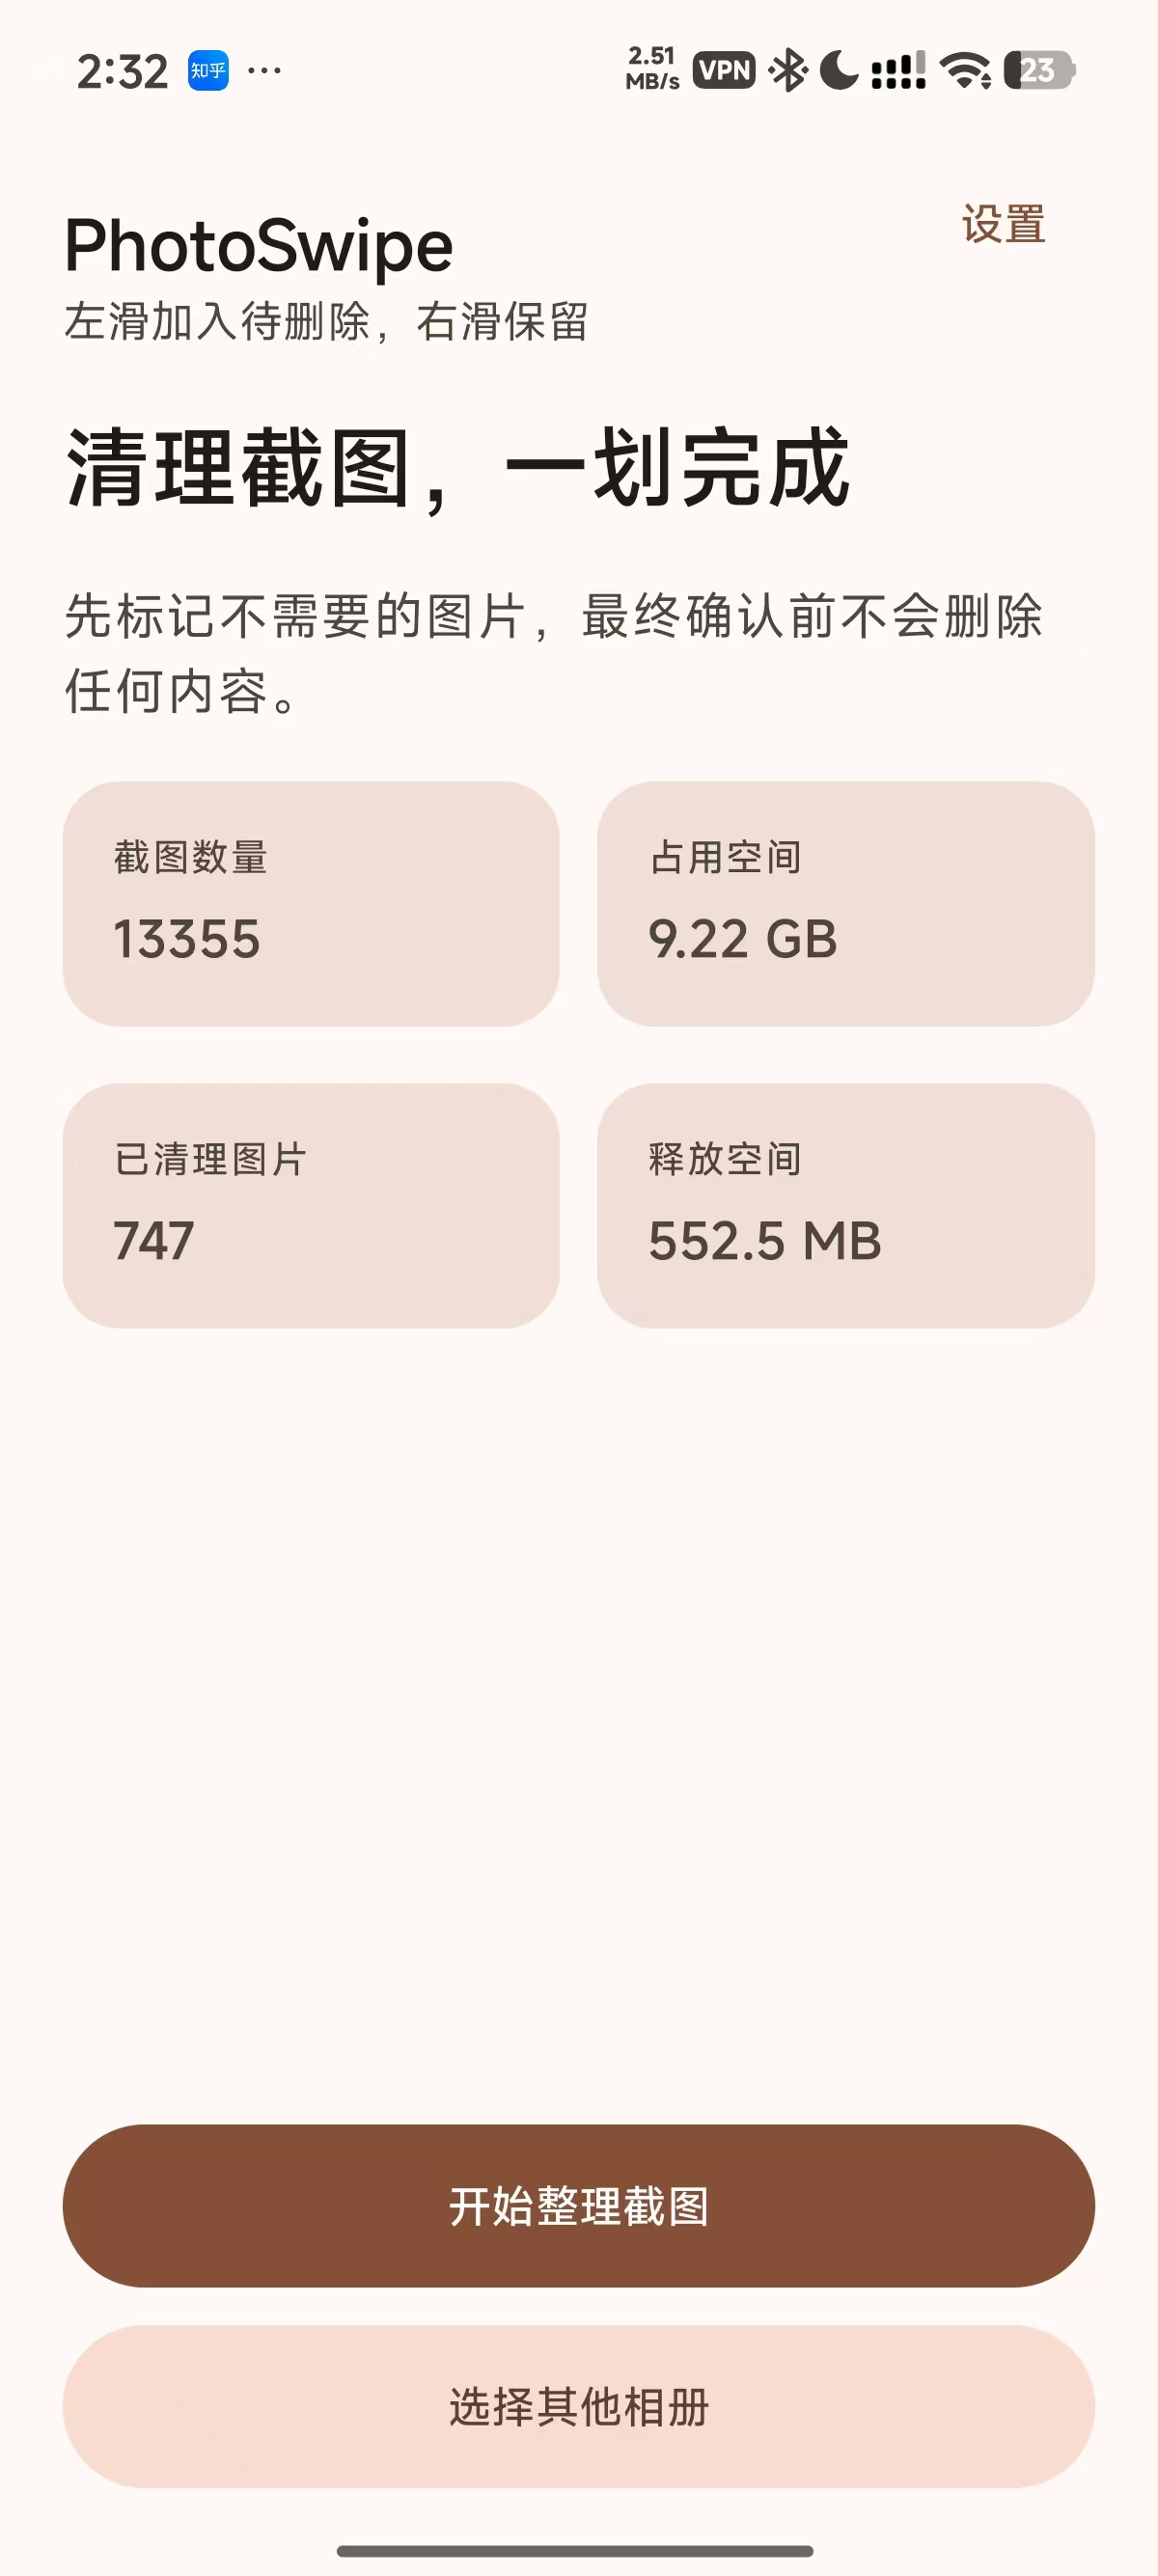
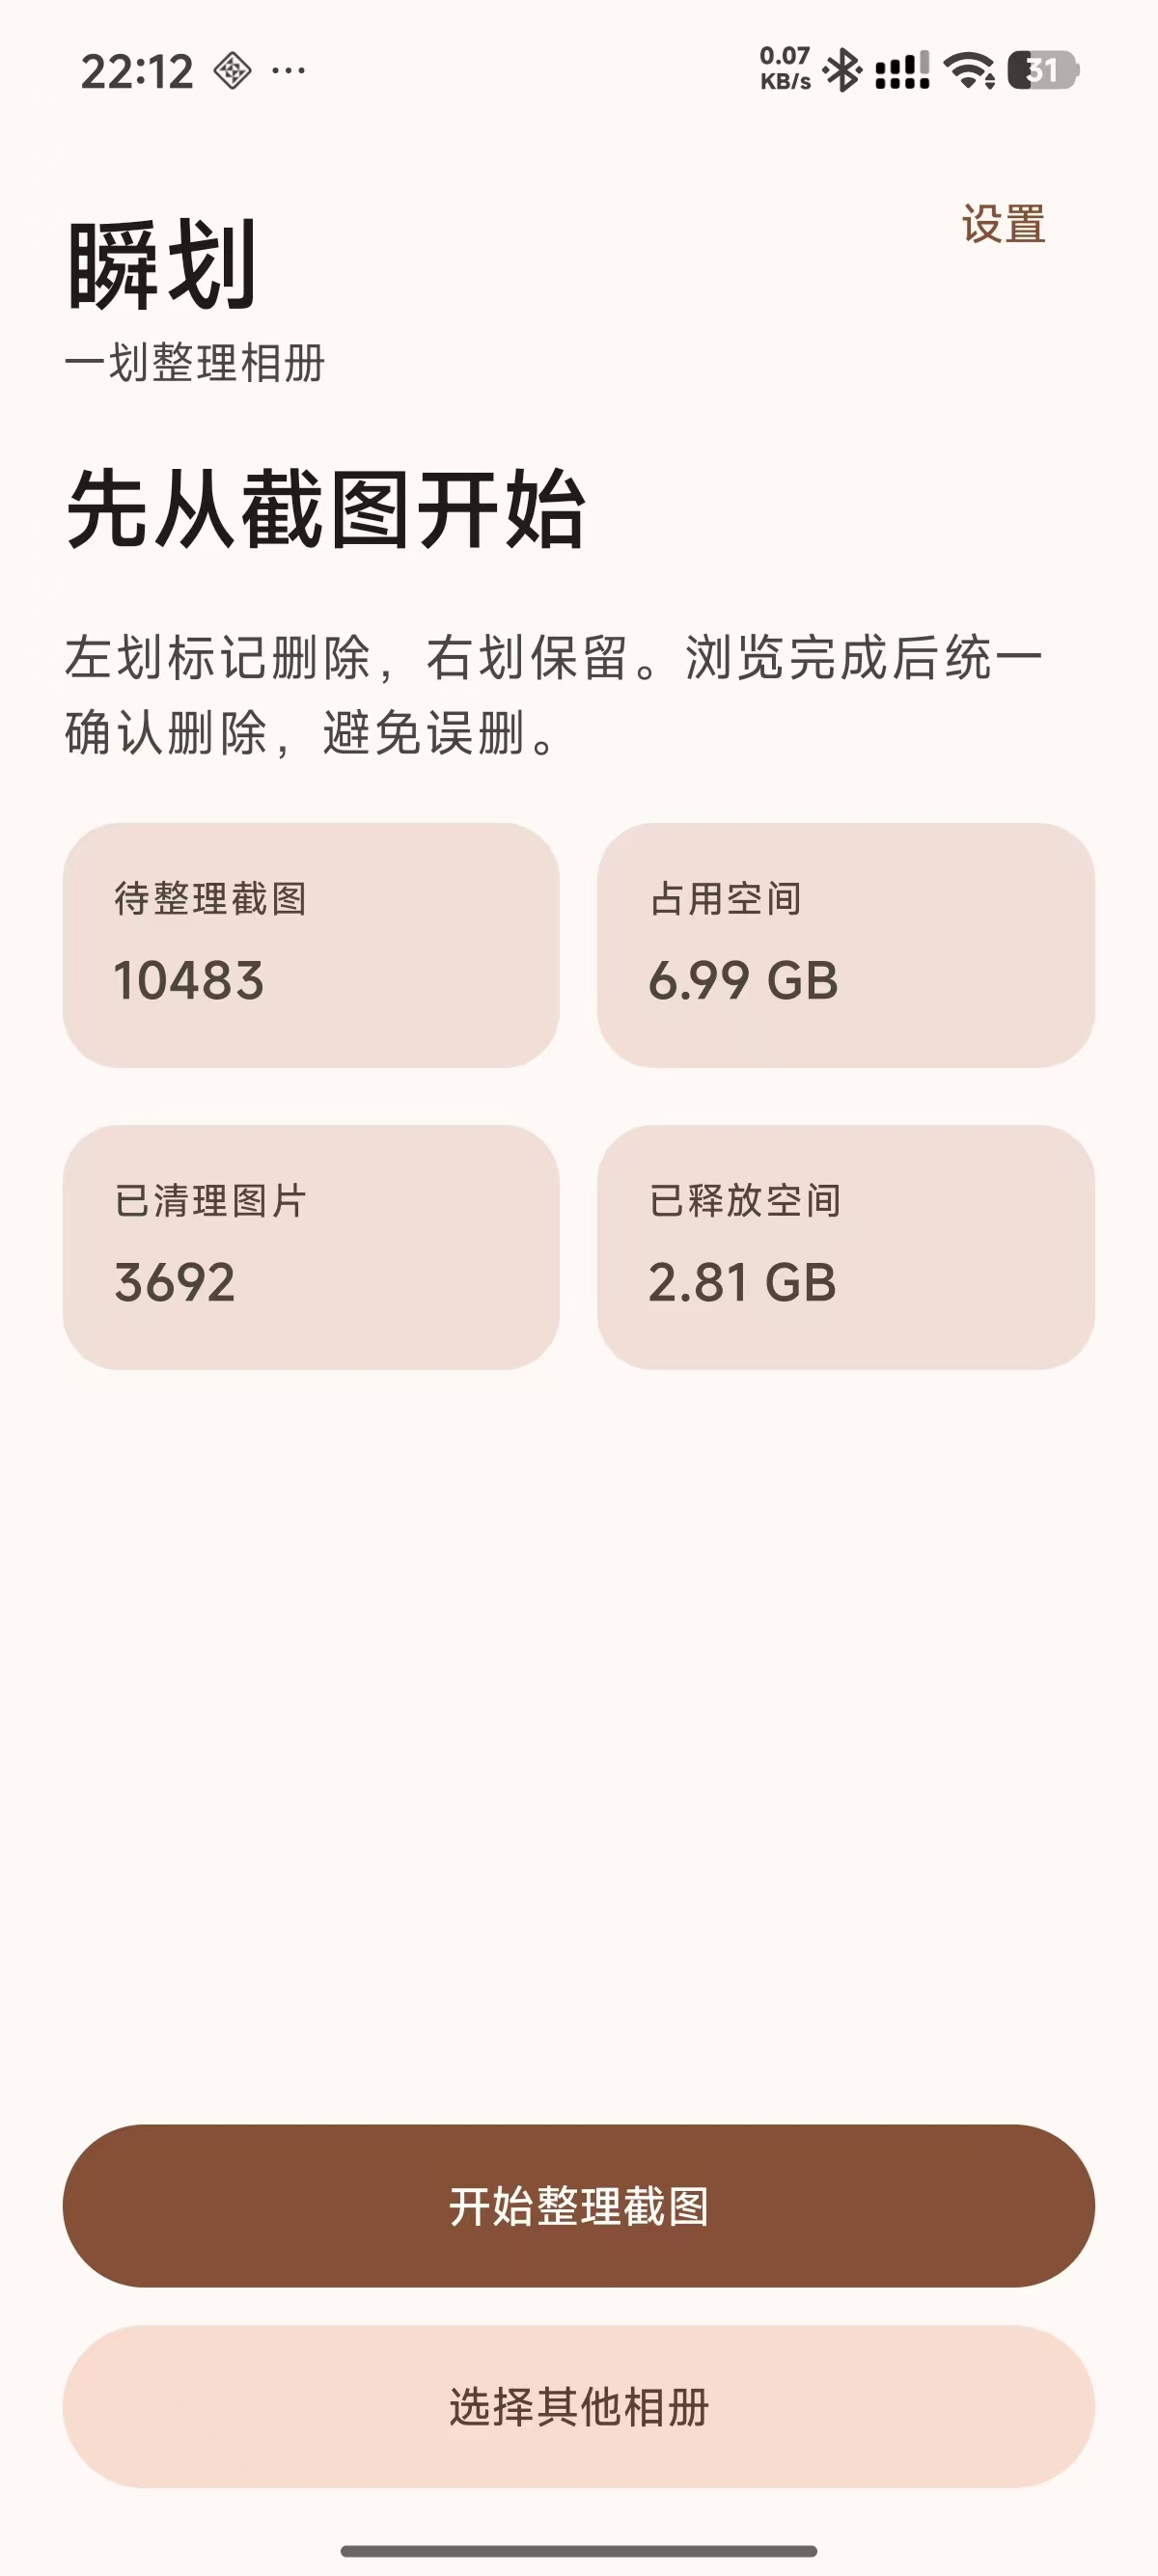
Refresh 瞬划 branding and documentation

Changed region(s): [[0.0308, 0.0, 0.9558, 0.5596], [0.555, 0.0, 0.8017, 0.0622], [0.8633, 0.0, 0.925, 0.0311]]

diff --git a/app/src/main/java/com/don194/photoswipe/MainActivity.kt b/app/src/main/java/com/don194/photoswipe/MainActivity.kt
@@ -1395,7 +1395,7 @@ private fun DeleteStatusBadge(status: DeleteStatus) {
 @Composable
 private fun AppHeader(title: String, subtitle: String, modifier: Modifier = Modifier) {
     Column(modifier) {
-        Text(title, style = MaterialTheme.typography.titleLarge, fontWeight = FontWeight.SemiBold)
+        Text(title, style = MaterialTheme.typography.headlineLarge, fontWeight = FontWeight.Bold)
         Text(subtitle, style = MaterialTheme.typography.bodyMedium, color = MaterialTheme.colorScheme.onSurfaceVariant)
     }
 }

diff --git a/README.md b/README.md
@@ -1,4 +1,4 @@
-# PhotoSwipe
+# 瞬划
 
 <div align="right"><a href="README.en.md">English</a></div>
 
@@ -6,7 +6,11 @@
 
 今年618换手机时，我发现相册里积攒了上万张截图。大部分是向朋友分享信息时残留的无用图片但是也其中有不少是游戏里的精彩瞬间，全部删除又觉得可惜；而系统相册逐张选择删除又很麻烦。
 
-PhotoSwipe 因此而来：交互灵感交友软件的卡片式左右滑动。快速浏览图片时，左滑标记删除，右滑保留，双指捏合放大方便查看长截图；浏览结束后再统一确认删除，让清理截图更轻松。
+瞬划（PhotoSwipe）因此而来：交互灵感来自交友软件的卡片式左右滑动。快速浏览图片时，左滑标记删除，右滑保留，双指捏合放大方便查看长截图；浏览结束后再统一确认删除，让清理截图更轻松。
+
+## 纯本地处理
+
+瞬划只读取和整理设备本地图片，不联网、不登录、不上传任何图片或使用数据。删除操作会交由 Android 系统显示确认，由你决定是否执行；应用不会在确认前删除图片。
 
 ## 下载
 
@@ -17,6 +21,7 @@ PhotoSwipe 因此而来：交互灵感交友软件的卡片式左右滑动。快
 - 主要功能是清理截图，也可按相册整理本地照片
 - 左滑标记删除，右滑保留，支持撤销
 - 支持拖动和缩放查看图片细节
+- 所有图片处理均在设备本地完成
 
 ## 界面截图
 

diff --git a/README.en.md b/README.en.md
@@ -8,11 +8,16 @@ When I changed phones during the 618 shopping festival, I found more than ten th
 
 PhotoSwipe was created for this reason: it is inspired by the card-based left and right swipes used in dating apps. Swipe left to mark a photo for deletion, swipe right to keep it, and pinch to zoom in on long screenshots. Review the selection and confirm the deletion at the end to make screenshot cleanup easier.
 
+## Local-only processing
+
+PhotoSwipe reads and organizes photos stored on your device. It does not connect to the internet, require sign-in, or upload photos or usage data. Android displays the final deletion confirmation, so no photo is deleted before you approve it.
+
 ## Core features
 
 - Mainly designed for cleaning up screenshots, but it can also organize local photos by album.
 - Swipe left to mark a photo for deletion, swipe right to keep it, and undo when needed.
 - Drag and zoom to inspect photo details.
+- All photo processing happens locally on your device.
 
 ## Download
 